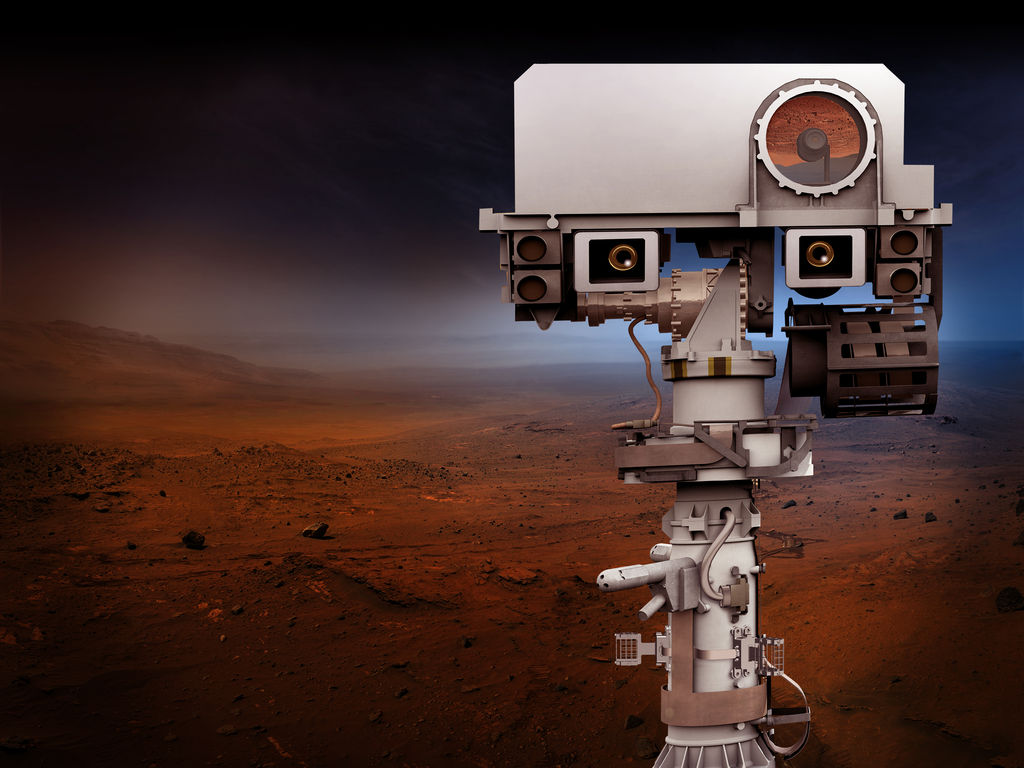
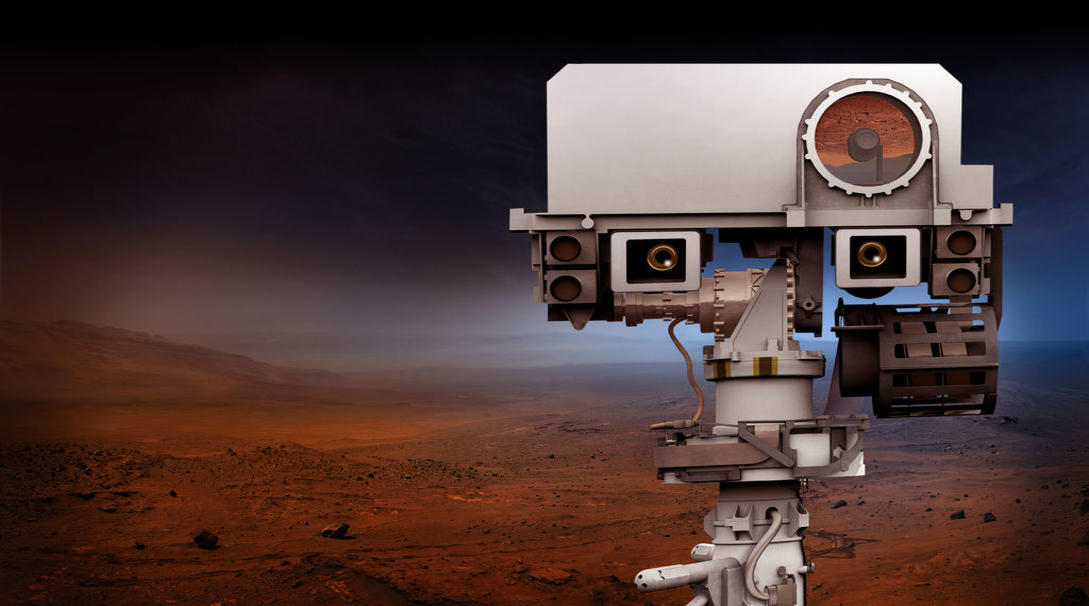
cropped header image, worked on hamburger menu

diff --git a/public/scripts/controller/routes.js b/public/scripts/controller/routes.js
@@ -1,11 +1,11 @@
 'use strict';
 
-// page('/', window.landingView.init);
- page('/explorer/:rover', window.explorerView.init, window.roverData.fetchCameras);
-// page('/login', window.loginView.init);
-// page('/aboutus', window.aboutUsView.init);
-//page('/explorer/:rover/results', resultsView.init);
-// page('/createaccount', createAccountView.init);
-// page('/accountview/:user', accountView.init);
+page('/', window.landingView.init);
+page('/explorer/:rover', window.explorerView.init, window.roverData.fetchCameras);
+page('/login', window.loginView.init);
+page('/aboutus', window.aboutUsView.init);
+page('/explorer/:rover/results', resultsView.init);
+page('/createaccount', createAccountView.init);
+page('/accountview/:user', accountView.init);
 
 page();

diff --git a/public/styles/modules/modules.css b/public/styles/modules/modules.css
@@ -1,3 +1,45 @@
 #datepicker {
     width: 50%;
 }
+
+.icon-menu {
+    font-size: 3em;
+    text-align: right;
+    position: absolute;
+    top: 0px;
+    right: 3px;
+}
+
+.main-nav {
+    padding: 0.1em;
+    display:block;
+}
+
+.main-nav ul {
+    display: none;
+    background-color: rgba(59, 59, 59, 0.7);
+    padding: 0;
+    list-style: none;
+    width: 100%;
+    clear: both;
+    position: absolute;
+    top: 0px;
+    left: 0px;
+}
+
+.main-nav:hover ul {
+    display: block;
+}
+
+.main-nav li {
+    width: 100%;
+    margin-right: .4em;
+    font-size: 1.5em;
+    padding: .5em .2em;
+    border-bottom: 1px solid #ccc;
+}
+
+a:link, a:hover, a:visited {
+    color: #FFFFFF;
+    text-decoration: none;
+}

diff --git a/public/styles/base/base.css b/public/styles/base/base.css
@@ -1,4 +1,5 @@
 body {
+    font-family: Avenir, Verdana, sans-serif;
     background-color: #000000;
     color: #FFFFFF;
 }

diff --git a/public/styles/layout/layout.css b/public/styles/layout/layout.css
@@ -1,3 +1,7 @@
+header {
+    position: relative;
+}
+
 header img {
     max-width: 100%;
 }
